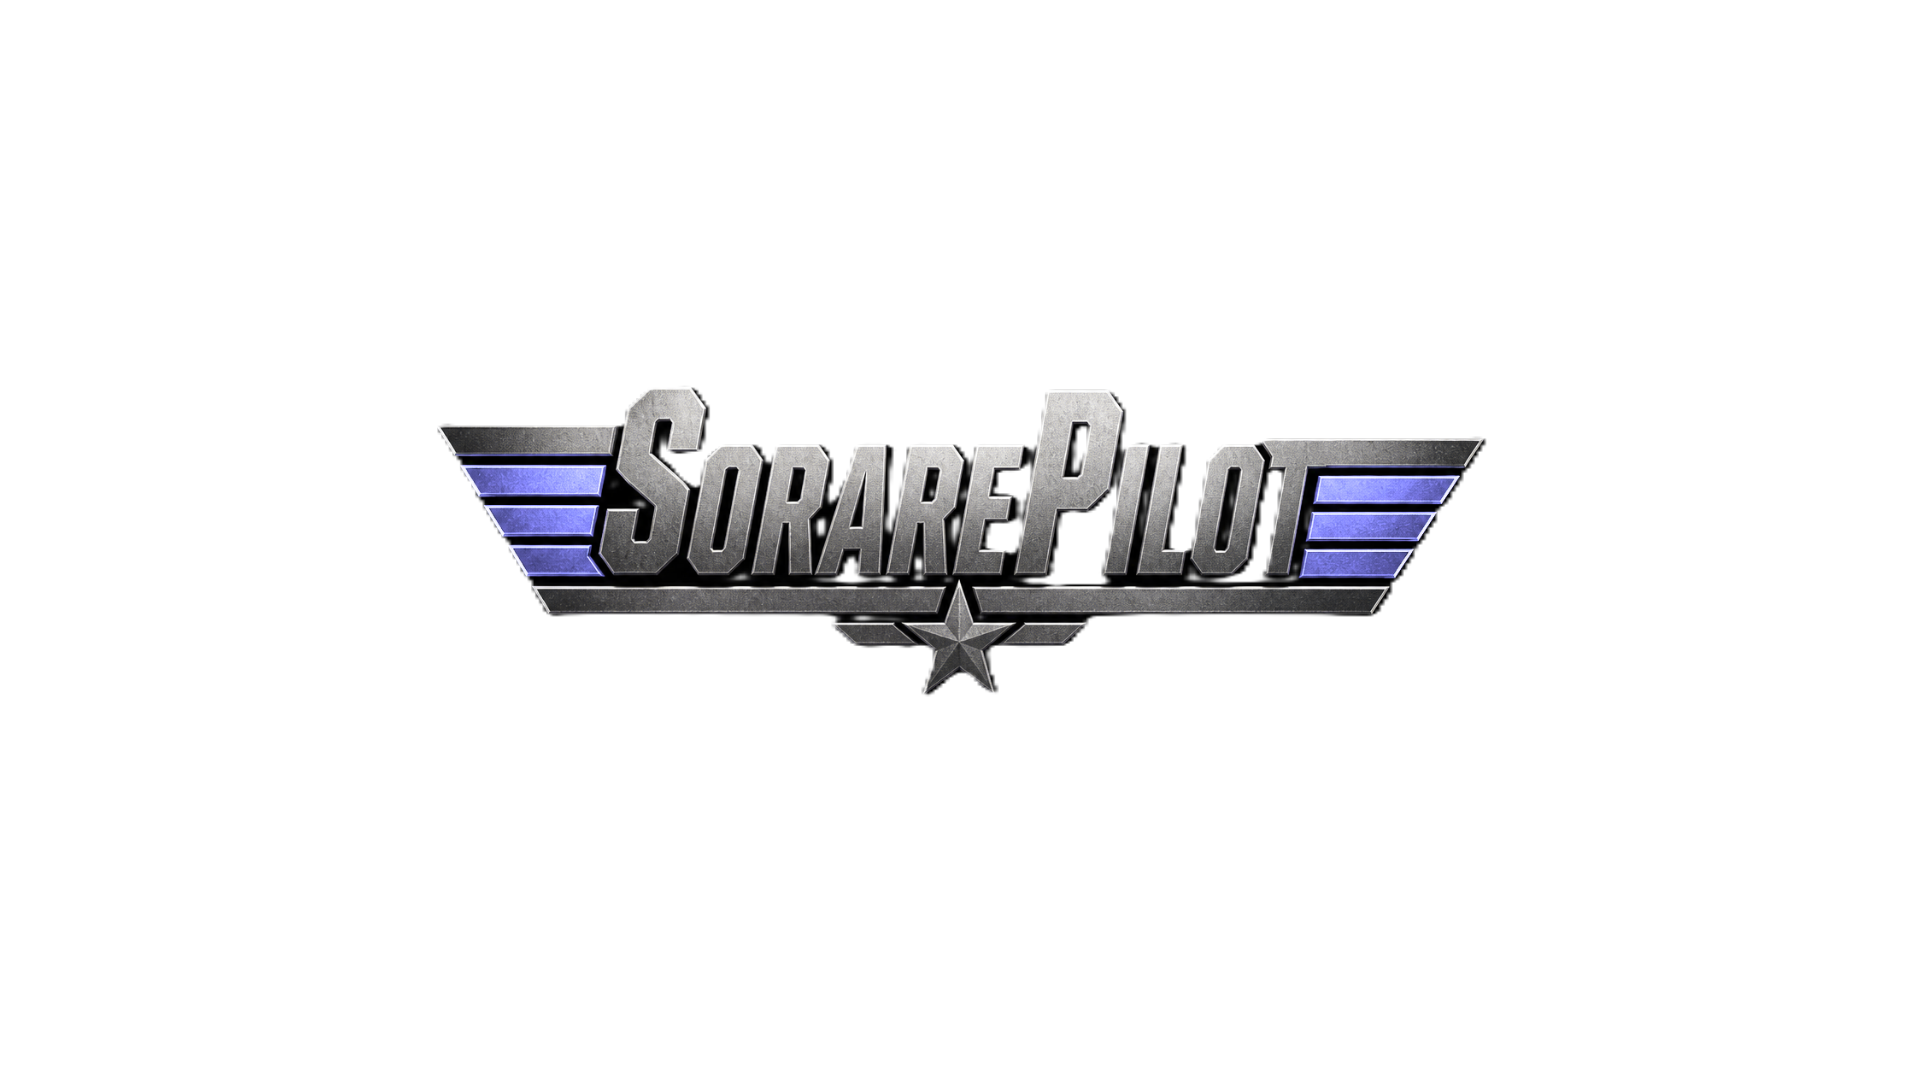
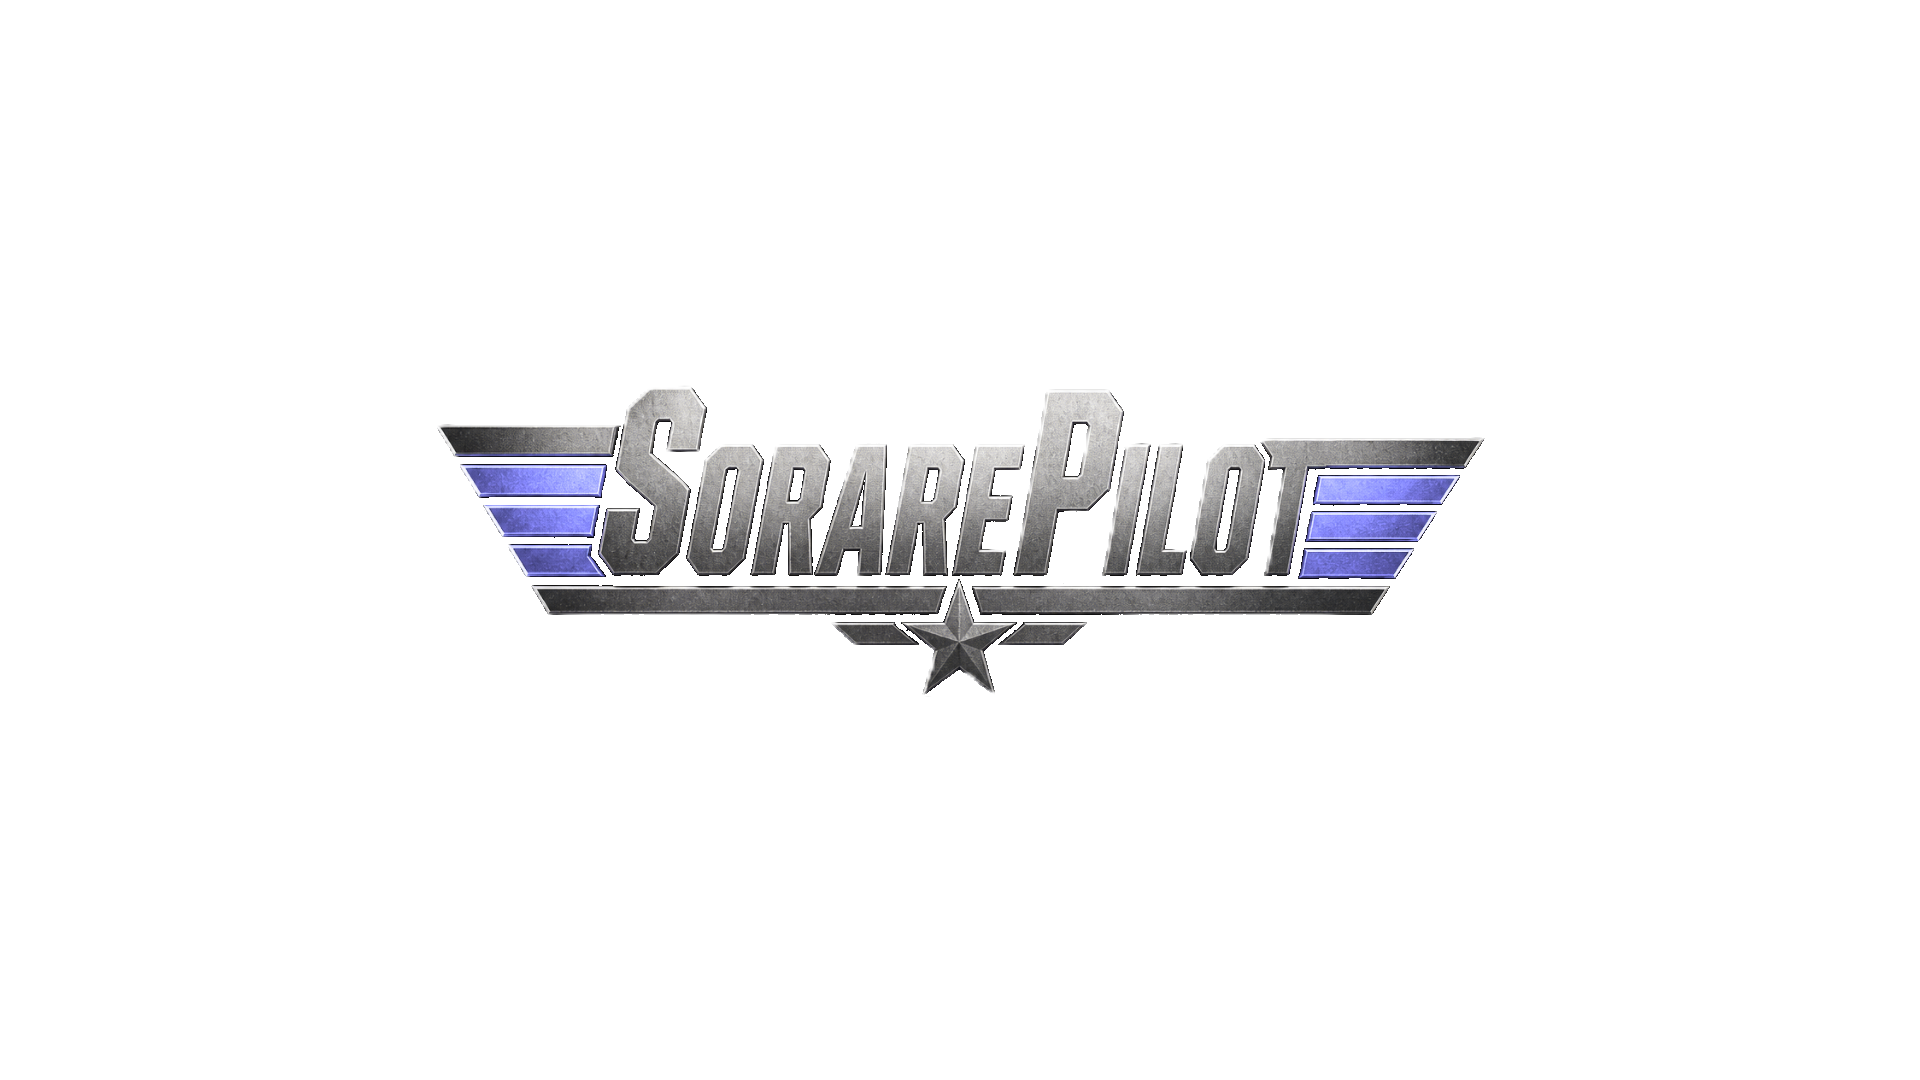
Rimuovi riquadro scuro interno da title.png in Home

Changed region(s): [[0.25, 0.3972, 0.7812, 0.6111]]

diff --git a/src/App.tsx b/src/App.tsx
@@ -1097,7 +1097,7 @@ export const HomeModule: React.FC<{
                 src="/title.png" 
                 alt="SorarePilot Title" 
                 className="max-w-[650px] sm:max-w-[850px] object-contain h-auto relative z-10 pointer-events-none"
-                style={{ imageRendering: 'auto', filter: 'brightness(1.3) contrast(1.1)' }}
+                style={{ imageRendering: "auto", filter: "brightness(1.3) contrast(1.1)" }}
                 onError={(e) => { e.currentTarget.style.display = 'none'; }}
               />
             </a>
